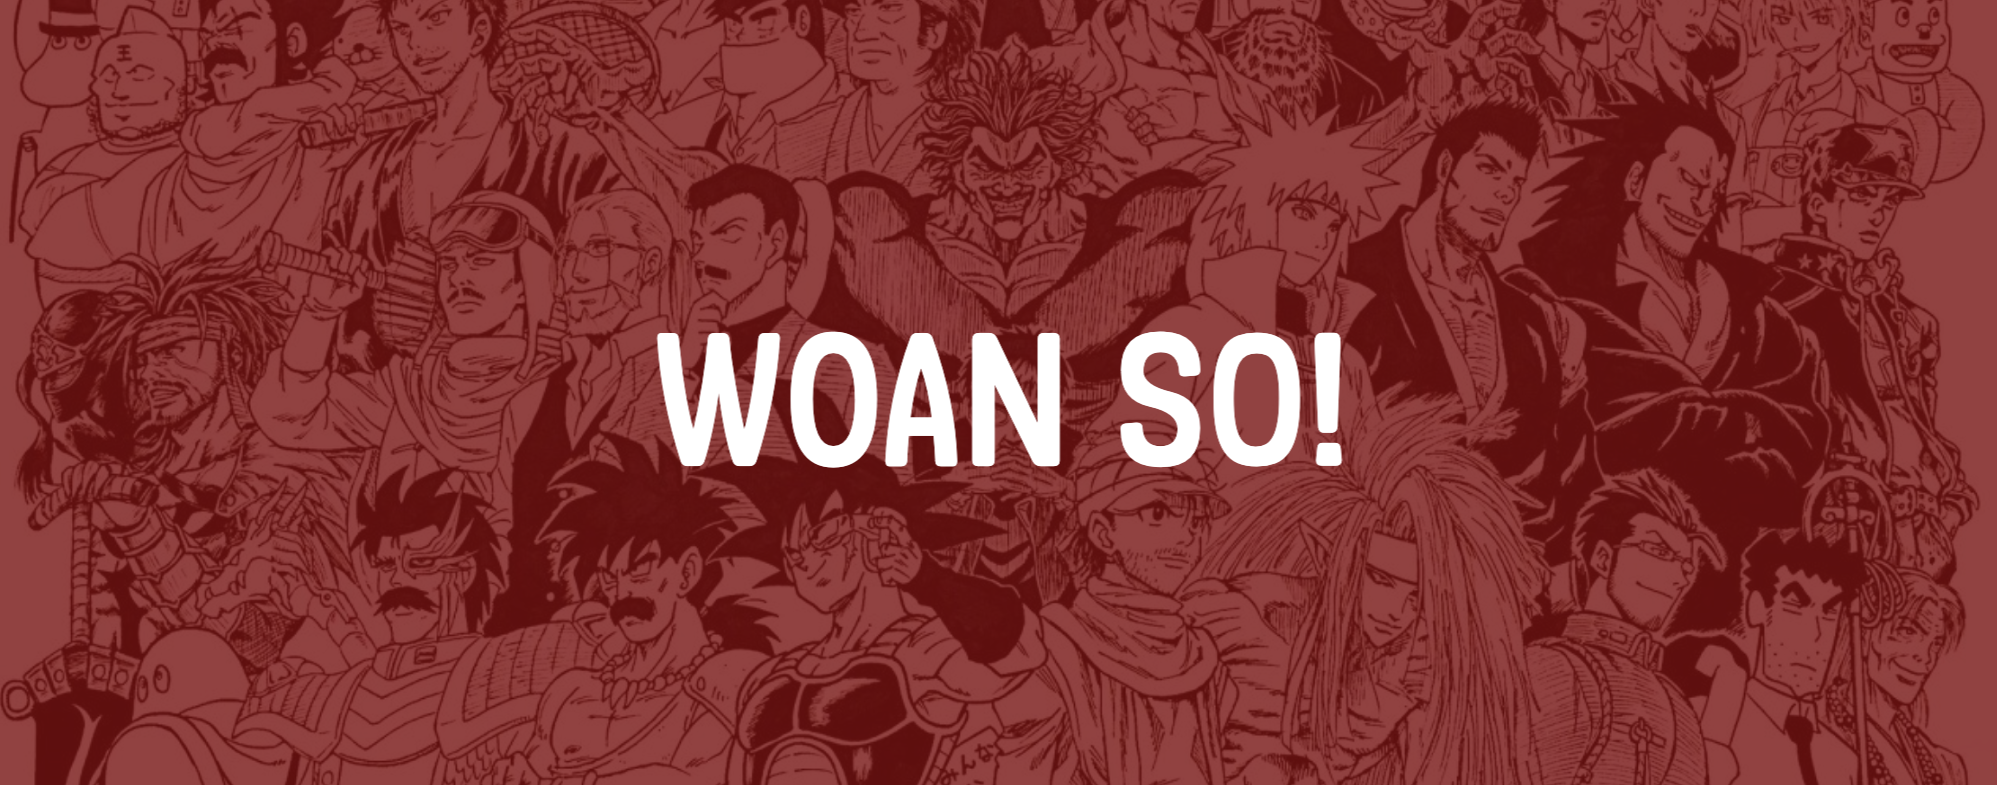
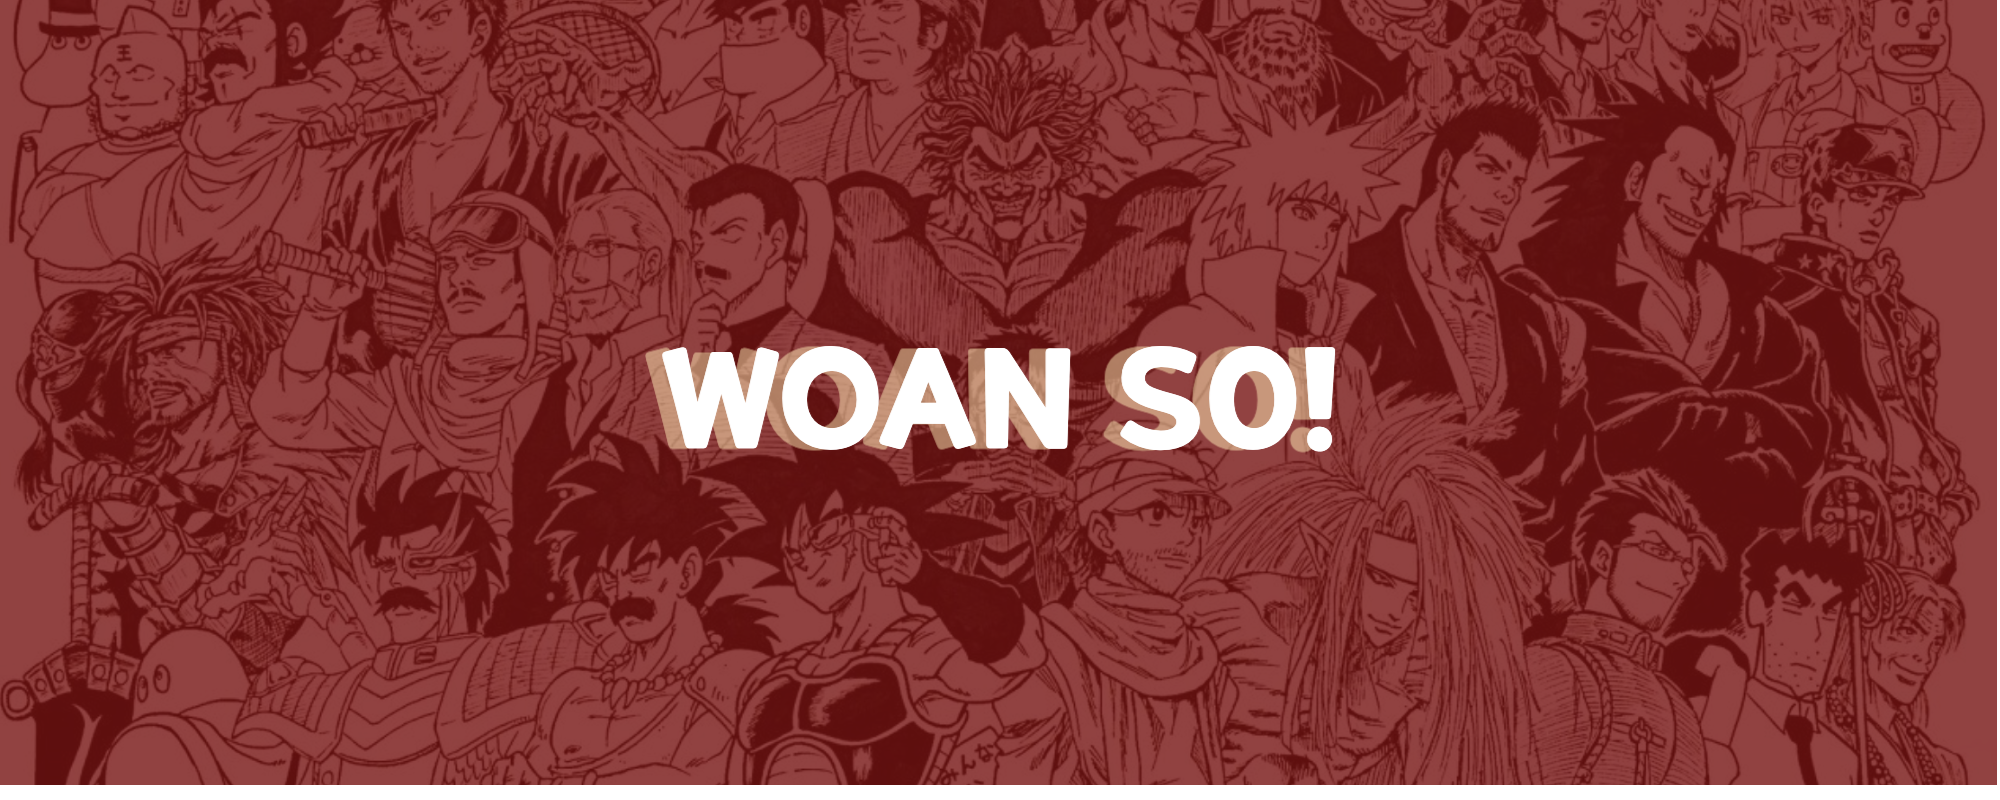
[2022-12-29(rents list page ui 수정, 카카오 문의 버튼 연동, 헤더 이미지 변경)

Changed region(s): [[0.31, 0.4062, 0.682, 0.5938]]

diff --git a/src/components/units/rents/index.tsx b/src/components/units/rents/index.tsx
@@ -13,13 +13,17 @@ export default function Rents() {
             <S.Title>순정만화 전권</S.Title>
             <S.Info>000 원작</S.Info>
             <S.Info>5,000원</S.Info>
-            <p>🍀 0.0</p>
+            <p>★ 0.0</p>
           </S.BookInfoWrap>
+
+          <S.BookStory>
+            블라블라블라블라블라블라블라블라블라블라블라블라블라블라블라블라블라블라블라블라블라블라블라블라블라블라블라블라블라블라블라블라블라블라블라블라블라블라블라블라블라블라블라블라블라블라블라블라블라블라블라블라블라블라블라블라블라블라블라블라블라블라블라블라블라블라블라블라블라블라블라블라블라블라블라블라블라블라블라블라블라블라블라블라블라블라블라블라블라블라블라블라블라블라블라블라블라블라블라블라블라블라블라블라블라블라블라블라블라블라블라블라블라블라블라블라블라블라블라블라블라블라블라블라블라블라블라블라블라블라블라블라블라블라블라블라블라블라블라블라블라블라블라블라블라블라블라블라블라블라블라블라블라블라블라블라블라블라블라블라블라블라블라블라블라블라블라블라블라블라블라블라블라블라블라블라블라블라블라블라블라블라블라블라블라블라블라블라블라블라블라블라
+          </S.BookStory>
 
           <S.BookIsRent>대여 가능</S.BookIsRent>
 
           <S.BookBtnWrap>
-            <S.Like>♡</S.Like>
+            <S.Like>💛</S.Like>
             <S.LikeCount>9</S.LikeCount>
             <S.BtnCart>장바구니</S.BtnCart>
             <S.BtnRent>대여하기</S.BtnRent>
@@ -35,13 +39,17 @@ export default function Rents() {
             <S.Title>일본만화 전권</S.Title>
             <S.Info>000 원작</S.Info>
             <S.Info>5,000원</S.Info>
-            <p>🍀 0.0</p>
+            <p>★ 0.0</p>
           </S.BookInfoWrap>
+
+          <S.BookStory>
+            블라블라블라블라블라블라블라블라블라블라블라블라블라블라블라블라블라블라블라블라블라블라블라블라블라블라블라블라블라블라블라블라블라블라블라블라블라블라블라블라블라블라블라블라블라블라블라블라블라블라블라블라블라블라블라블라블라블라블라블라블라블라블라블라블라블라블라블라블라블라블라블라블라블라블라블라블라블라블라블라블라블라블라블라블라블라블라블라블라블라블라블라블라블라블라블라블라블라블라블라블라블라블라블라블라블라블라블라블라블라블라블라블라블라블라블라블라블라블라블라블라블라블라블라블라블라블라블라블라블라블라블라블라블라블라블라블라블라블라블라블라블라블라블라블라블라블라블라블라블라블라블라블라블라블라블라블라블라블라블라블라블라블라블라블라블라블라블라블라블라블라블라블라블라블라블라블라블라블라블라블라블라블라블라블라블라블라블라블라블라블라블라
+          </S.BookStory>
 
           <S.BookIsRent>대여 가능</S.BookIsRent>
 
           <S.BookBtnWrap>
-            <S.Like>♡</S.Like>
+            <S.Like>💛</S.Like>
             <S.LikeCount>9</S.LikeCount>
             <S.BtnCart>장바구니</S.BtnCart>
             <S.BtnRent>대여하기</S.BtnRent>
@@ -57,13 +65,17 @@ export default function Rents() {
             <S.Title>건방진 그 녀석</S.Title>
             <S.Info>000 원작</S.Info>
             <S.Info>5,000원</S.Info>
-            <p>🍀 0.0</p>
+            <p>★ 0.0</p>
           </S.BookInfoWrap>
+
+          <S.BookStory>
+            블라블라블라블라블라블라블라블라블라블라블라블라블라블라블라블라블라블라블라블라블라블라블라블라블라블라블라블라블라블라블라블라블라블라블라블라블라블라블라블라블라블라블라블라블라블라블라블라블라블라블라블라블라블라블라블라블라블라블라블라블라블라블라블라블라블라블라블라블라블라블라블라블라블라블라블라블라블라블라블라블라블라블라블라블라블라블라블라블라블라블라블라블라블라블라블라블라블라블라블라블라블라블라블라블라블라블라블라블라블라블라블라블라블라블라블라블라블라블라블라블라블라블라블라블라블라블라블라블라블라블라블라블라블라블라블라블라블라블라블라블라블라블라블라블라블라블라블라블라블라블라블라블라블라블라블라블라블라블라블라블라블라블라블라블라블라블라블라블라블라블라블라블라블라블라블라블라블라블라블라블라블라블라블라블라블라블라블라블라블라블라블라
+          </S.BookStory>
 
           <S.BookIsRent>대여 가능</S.BookIsRent>
 
           <S.BookBtnWrap>
-            <S.Like>♡</S.Like>
+            <S.Like>💛</S.Like>
             <S.LikeCount>9</S.LikeCount>
             <S.BtnCart>장바구니</S.BtnCart>
             <S.BtnRent>대여하기</S.BtnRent>
@@ -79,13 +91,17 @@ export default function Rents() {
             <S.Title>히로 서클</S.Title>
             <S.Info>000 원작</S.Info>
             <S.Info>5,000원</S.Info>
-            <p>🍀 0.0</p>
+            <p>★ 0.0</p>
           </S.BookInfoWrap>
+
+          <S.BookStory>
+            블라블라블라블라블라블라블라블라블라블라블라블라블라블라블라블라블라블라블라블라블라블라블라블라블라블라블라블라블라블라블라블라블라블라블라블라블라블라블라블라블라블라블라블라블라블라블라블라블라블라블라블라블라블라블라블라블라블라블라블라블라블라블라블라블라블라블라블라블라블라블라블라블라블라블라블라블라블라블라블라블라블라블라블라블라블라블라블라블라블라블라블라블라블라블라블라블라블라블라블라블라블라블라블라블라블라블라블라블라블라블라블라블라블라블라블라블라블라블라블라블라블라블라블라블라블라블라블라블라블라블라블라블라블라블라블라블라블라블라블라블라블라블라블라블라블라블라블라블라블라블라블라블라블라블라블라블라블라블라블라블라블라블라블라블라블라블라블라블라블라블라블라블라블라블라블라블라블라블라블라블라블라블라블라블라블라블라블라블라블라블라블라
+          </S.BookStory>
 
           <S.BookIsRent>대여 가능</S.BookIsRent>
 
           <S.BookBtnWrap>
-            <S.Like>♡</S.Like>
+            <S.Like>💛</S.Like>
             <S.LikeCount>9</S.LikeCount>
             <S.BtnCart>장바구니</S.BtnCart>
             <S.BtnRent>대여하기</S.BtnRent>
@@ -101,13 +117,17 @@ export default function Rents() {
             <S.Title>일본 만화</S.Title>
             <S.Info>000 원작</S.Info>
             <S.Info>5,000원</S.Info>
-            <p>🍀 0.0</p>
+            <p>★ 0.0</p>
           </S.BookInfoWrap>
+
+          <S.BookStory>
+            블라블라블라블라블라블라블라블라블라블라블라블라블라블라블라블라블라블라블라블라블라블라블라블라블라블라블라블라블라블라블라블라블라블라블라블라블라블라블라블라블라블라블라블라블라블라블라블라블라블라블라블라블라블라블라블라블라블라블라블라블라블라블라블라블라블라블라블라블라블라블라블라블라블라블라블라블라블라블라블라블라블라블라블라블라블라블라블라블라블라블라블라블라블라블라블라블라블라블라블라블라블라블라블라블라블라블라블라블라블라블라블라블라블라블라블라블라블라블라블라블라블라블라블라블라블라블라블라블라블라블라블라블라블라블라블라블라블라블라블라블라블라블라블라블라블라블라블라블라블라블라블라블라블라블라블라블라블라블라블라블라블라블라블라블라블라블라블라블라블라블라블라블라블라블라블라블라블라블라블라블라블라블라블라블라블라블라블라블라블라블라블라
+          </S.BookStory>
 
           <S.BookIsRent>대여 가능</S.BookIsRent>
 
           <S.BookBtnWrap>
-            <S.Like>♡</S.Like>
+            <S.Like>💛</S.Like>
             <S.LikeCount>9</S.LikeCount>
             <S.BtnCart>장바구니</S.BtnCart>
             <S.BtnRent>대여하기</S.BtnRent>

diff --git a/src/components/units/rents/style.ts b/src/components/units/rents/style.ts
@@ -1,5 +1,5 @@
 import styled from "@emotion/styled";
-
+import { SmileOutlined } from "@ant-design/icons";
 export const OuterWrap = styled.div``;
 
 export const InnerWrap = styled.div`
@@ -9,7 +9,7 @@ export const InnerWrap = styled.div`
 export const ListWrap = styled.div`
   padding: 20px;
   display: flex;
-  border-top: 1px solid #77170d;
+  border-top: 1px solid #dddddd;
 `;
 
 export const BookImgBox = styled.div``;
@@ -22,7 +22,13 @@ export const BookImg = styled.img`
 
 export const BookInfoWrap = styled.div`
   padding: 10px 50px;
-  width: 60%;
+  width: 300px;
+  height: 100%;
+`;
+
+export const BookStory = styled.div`
+  padding: 10px 50px;
+  width: 50%;
   height: 100%;
 `;
 
@@ -37,8 +43,9 @@ export const Info = styled.h3`
 export const BookIsRent = styled.div`
   line-height: 100%;
   display: flex;
-  justify-content: row;
+  justify-content: center;
   align-items: center;
+  width: 200px;
 `;
 
 export const BookBtnWrap = styled.div`
@@ -47,23 +54,30 @@ export const BookBtnWrap = styled.div`
   align-items: flex-end;
   width: 300px;
 `;
-export const Like = styled.div`
+export const Like = styled(SmileOutlined)`
   font-size: 40px;
-  color: pink;
+  color: #77170d;
 `;
 export const LikeCount = styled.div`
   font-size: 20px;
   margin-right: 12px;
   margin-bottom: 50px;
+  color: #77170d;
 `;
 export const BtnCart = styled.button`
   width: 200px;
   height: 50px;
   background-color: #f5efe3;
+  color: #77170d;
+  font-weight: 700;
   margin: 20px 0;
+  border-radius: 4px;
 `;
 export const BtnRent = styled.button`
   width: 200px;
   height: 50px;
-  background-color: #5055b1;
+  background-color: #f5efe3;
+  color: #77170d;
+  font-weight: 700;
+  border-radius: 4px;
 `;

diff --git a/src/components/units/main/index.tsx b/src/components/units/main/index.tsx
@@ -1,7 +1,7 @@
 import BestBooks from "../../commons/bestbooks";
 import { BookSliderTop } from "../../commons/carousel";
 import FaqMini from "../../commons/faqmini";
-import KakaoAsk from "../../commons/kakaoask";
+import SideBar from "../../commons/sidebar";
 import Picks from "../../commons/picks/style";
 import Recommand from "../../commons/recommand";
 import SignupBenefit from "../../commons/signupbenefit";
@@ -18,7 +18,7 @@ export default function Main() {
         <BestBooks />
         <FaqMini />
         <SignupBenefit />
-        <KakaoAsk />
+        <SideBar />
       </S.InnerWrap>
     </S.OuterWrap>
   );

diff --git a/src/components/commons/sidebar/index.tsx b/src/components/commons/sidebar/index.tsx
@@ -1,16 +1,20 @@
 import { useState } from "react";
 import * as S from "./style";
 
-export default function KakaoAsk() {
+export default function SideBar() {
   const [open, setOpen] = useState(false);
 
+  const onClickMoveTokakao = () => {
+    let pageUrl = "https://open.kakao.com/o/s8iiqXVe";
+    document.location.href = pageUrl;
+  };
   const onClickOpenMenu = () => {
     setOpen((prev) => !prev);
   };
   return (
     <S.OuterWrap>
       <S.InnerWrap>
-        <S.Box>
+        <S.Box onClick={onClickMoveTokakao}>
           <S.PhoneIcon />
         </S.Box>
         <S.BoxLong open={open}>

diff --git a/src/components/commons/signupbenefit/style.ts b/src/components/commons/signupbenefit/style.ts
@@ -51,9 +51,13 @@ export const PointBox = styled.div`
 `;
 
 export const PointText = styled.p`
-  margin-bottom: 10px;
+  margin-bottom: 15px;
   font-size: 20px;
+  font-family: "yang";
 `;
 export const PointAmount = styled.p`
   font-size: 50px;
+  font-family: "yang";
+  color: #000;
+  letter-spacing: 1px;
 `;

diff --git a/src/components/commons/sidebar/style.ts b/src/components/commons/sidebar/style.ts
@@ -21,6 +21,7 @@ export const Box = styled.div`
   justify-content: center;
   align-items: center;
   margin-bottom: 20px;
+  cursor: pointer;
 `;
 
 export const PhoneIcon = styled(PhoneOutlined)`
